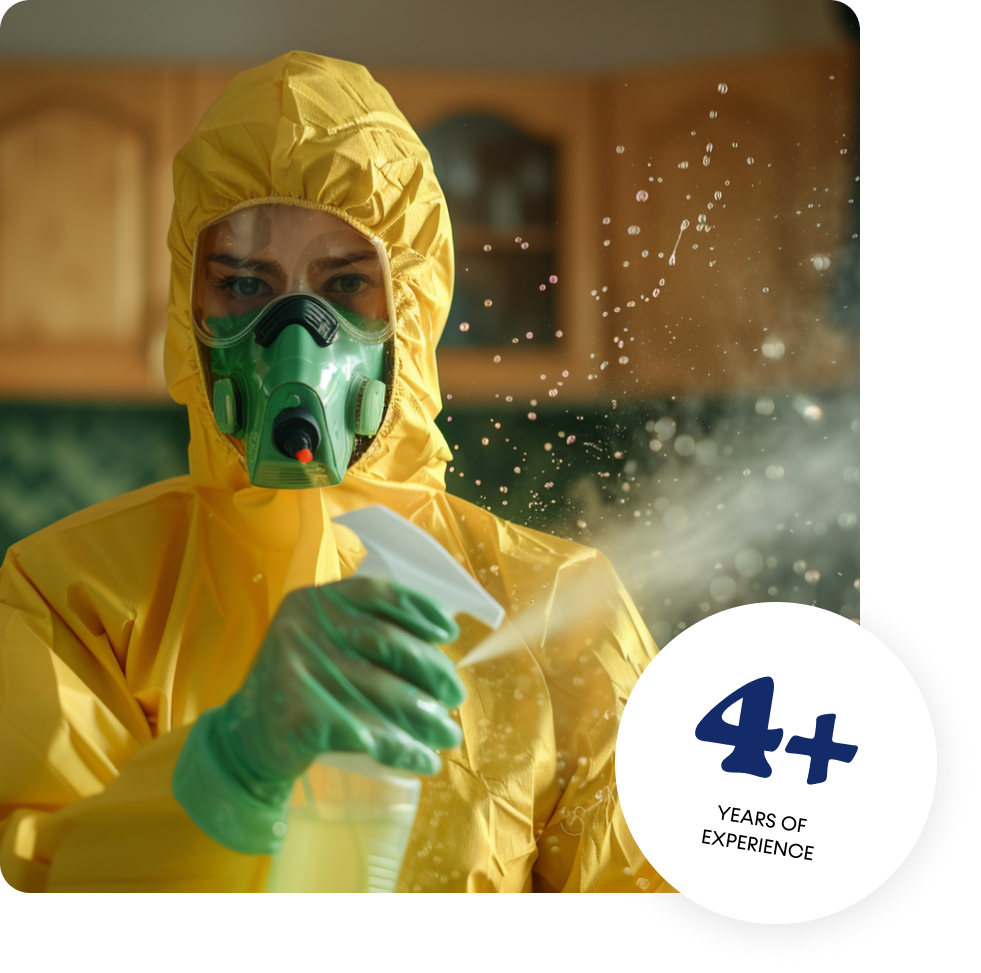
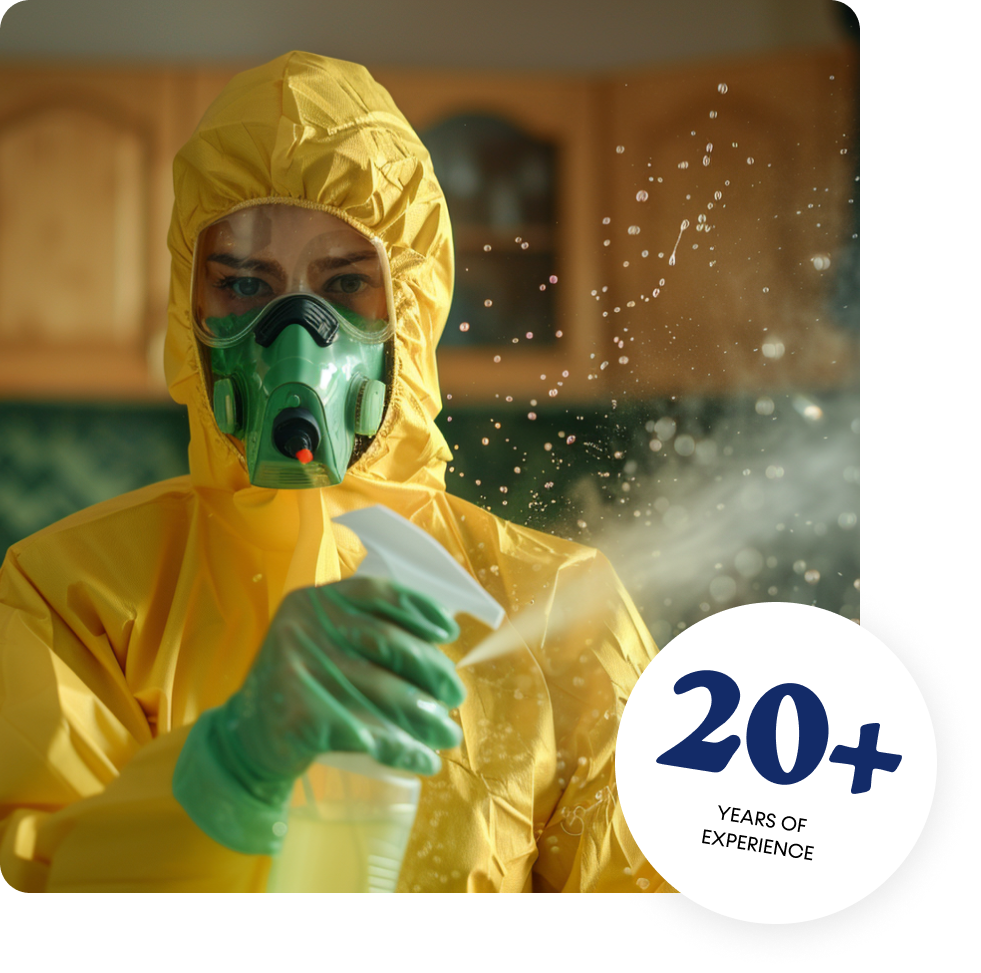
all changes done

Changed region(s): [[0.6728, 0.6783, 0.9174, 0.8325]]

diff --git a/src/pages/Contact.js b/src/pages/Contact.js
@@ -5,7 +5,7 @@ import message from "../assets/images/msg.png";
 import phone from "../assets/images/ph.png";
 import location from "../assets/images/loc.png";
 import girl from "../assets/images/g.png";
-
+import Form from "../components/Form";
 const Contact = () => {
   const [formData, setFormData] = useState({
     name: "",
@@ -82,7 +82,7 @@ const Contact = () => {
         </div>
       </div>
       <div className="journal-blog-y">
-        <div className="form-y">
+        {/* <div className="form-y">
           <form action="" className="form-iy" onSubmit={handleSubmit}>
             <h1 id="astro" className="form-cont-h">
               Let's Talk
@@ -191,10 +191,19 @@ const Contact = () => {
               </button>
             </div>
           </form>
+        </div> */}
+        <div className="form-emd">
+        <h1 id="astro" className="form-cont-h">
+              Let's Talk
+            </h1>
+            <p className="form-cont-p" style={{ color: "#7E7E7E" }}>
+            Get in touch with VISION Group Cleaning today to schedule a service or learn more about how we can keep your spaces immaculate and welcoming.
+            </p>
+          <Form />
         </div>
         <div className="contactRight">
           <div>
-            <img className="girl" src={girl} alt=""/>
+            <img className="girl" src={girl} alt="" />
           </div>
           <div className="contactTxt">
             <div className="reach-p">
@@ -202,7 +211,13 @@ const Contact = () => {
             </div>
             <div className="det">
               <div>Quick Contact</div>
-              <a href="mailto:inquiries@vgcleaning.com" style={{ textDecoration: "none", color:'black' }} className="">inquiries@vgcleaning.com</a>
+              <a
+                href="mailto:inquiries@vgcleaning.com"
+                style={{ textDecoration: "none", color: "black" }}
+                className=""
+              >
+                inquiries@vgcleaning.com
+              </a>
             </div>
           </div>
           <div className="contactTxt">
@@ -211,7 +226,13 @@ const Contact = () => {
             </div>
             <div className="det">
               <div>Call Us</div>
-              <a href="tel:8179379888" style={{ textDecoration: "none", color:'black' }} className="">817-937-9888</a>
+              <a
+                href="tel:8179379888"
+                style={{ textDecoration: "none", color: "black" }}
+                className=""
+              >
+                817-937-9888
+              </a>
             </div>
           </div>
           <div className="contactTxt">
@@ -221,7 +242,7 @@ const Contact = () => {
             <div className="det">
               <div>Location</div>
               <p className="">
-              2580 W. Camp Wisdom Rd.Suite 100-187 Grand Prairie, TX 75052
+                2580 W. Camp Wisdom Rd.Suite 100-187 Grand Prairie, TX 75052
               </p>
             </div>
           </div>

diff --git a/src/components/Form.js b/src/components/Form.js
@@ -1,0 +1,30 @@
+import React, { useEffect } from 'react';
+
+const Form = () => {
+  useEffect(() => {
+    (function(h, b, s, n, i, p, e, t) {
+      h._HB_ = h._HB_ || {};
+      h._HB_.pid = i;
+      t = b.createElement(s);
+      t.type = "text/javascript";
+      t.async = !0;
+      t.src = n;
+      e = b.getElementsByTagName(s)[0];
+      e.parentNode.insertBefore(t, e);
+    })(window, document, "script", "https://widget.honeybook.com/assets_users_production/websiteplacements/placement-controller.min.js", "666b72c762383900258d8244");
+  }, []);
+
+  return (
+    <div className="hb-p-666b72c762383900258d8244-1">
+      <img
+        height="1"
+        width="1"
+        style={{ display: 'none' }}
+        src="https://www.honeybook.com/p.png?pid=666b72c762383900258d8244"
+        alt=""
+      />
+    </div>
+  );
+};
+
+export default Form;

diff --git a/src/components/Navbar.js b/src/components/Navbar.js
@@ -3,9 +3,10 @@ import "../assets/styles/Navbar.css"
 import { GoArrowUpRight } from "react-icons/go";
 import logo from '../assets/images/logo.png';
 import { RxHamburgerMenu } from "react-icons/rx";
-import { Link } from "react-router-dom";
+import { Link, useNavigate } from "react-router-dom";
 
 const Navbar = () => {
+  const nav = useNavigate();
   return (
     <div>
       <nav className="nav-main navbar navbar-expand-lg">
@@ -39,7 +40,7 @@ const Navbar = () => {
                 </Link>
               </li>
               <li className="nav-item">
-                <Link className="nav-link" to={'/contact'}>
+                <Link className="nav-link" onClick={()=>{nav('/contact'); window.location.reload();}}>
                   Contact
                 </Link>
               </li>

diff --git a/src/pages/Abouts.js b/src/pages/Abouts.js
@@ -336,9 +336,7 @@ const Abouts = () => {
               CAPABILITY STATEMENT
             </h2>
             <p>
-              Lorem Ipsum is simply dummy text of the printing and typesetting
-              industry. Lorem Ipsum has been the industry's standard dummy text
-              ever since the 1500s
+            VIGCE LLC, a certified Woman-Owned Small Business (WOSB) with over 20 years of experience, specializes in high-quality general maintenance cleaning, new construction cleaning, and sanitizing services for commercial facilities, consistently exceeding customer satisfaction.
             </p>
             <div className="button-get-r" id="donw-btn" type="button">
               <a href="https://drive.google.com/uc?export=download&id=17iVR9JrfukXVqmMuRAsTsekPX5DAdvw6">

diff --git a/src/assets/styles/Contact.css b/src/assets/styles/Contact.css
@@ -17,7 +17,8 @@
 .journal-blog-y {
   display: flex;
   align-items: center;
-  padding: 60px 200px;
+  justify-content: space-around;
+  padding: 60px 120px;
 }
 .button-machine button {
   cursor: pointer;
@@ -154,6 +155,22 @@
 .form-cont-p{
     text-align: left;
 }
+
+.form-emd{
+  width: 450px;
+}
+
+@media(max-width:585px){
+  .form-emd{
+    width: 350px;
+  }
+}
+@media(max-width:360px){
+  .form-emd{
+    width: 300px;
+  }
+}
+
 @media (max-width: 1242px) {
   .journal-blog-y {
     padding: 60px 50px;
